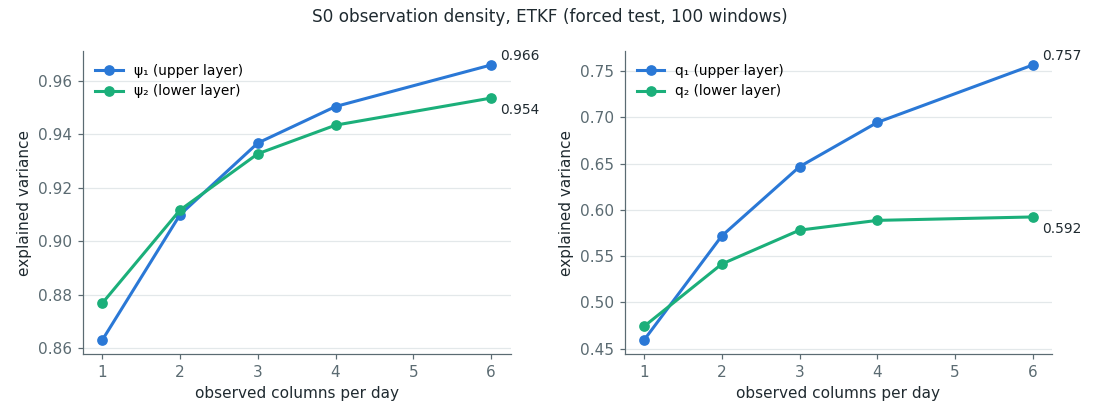
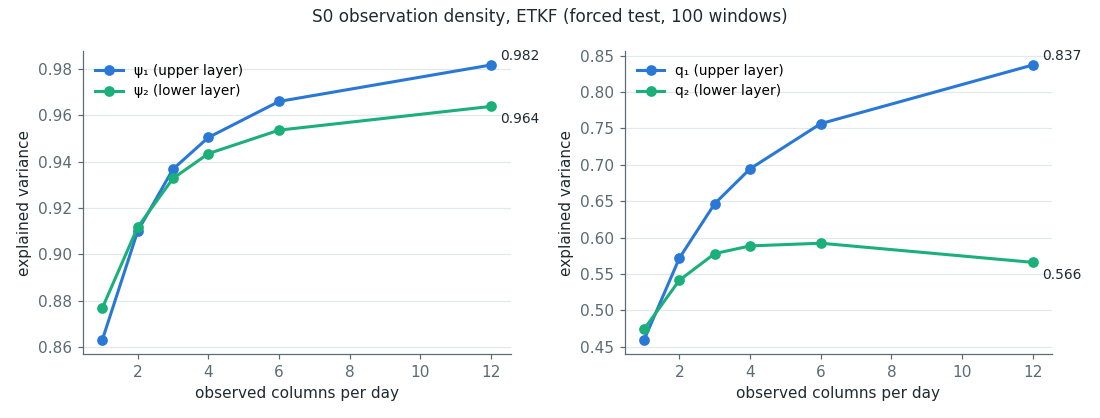
feat(qg): DA rows for the gyrostat observation-configuration stress test (#359)
ETKF, EnKS (N = 80) and strong 4D-Var on the forced test set at 12 columns per
day and at 15% / 2% noise, plus EnKS and 4D-Var at 6 columns per day, with
the reference-case settings. The DA sbatch gains NOISE (run tag _n<noise>);
the report's DA lookup now matches the noise level. §10 and the results doc
compare the neural schemes with DA in every configuration.

diff --git a/reports/qg/generate_qg_specwind_da_report.py b/reports/qg/generate_qg_specwind_da_report.py
@@ -56,7 +56,7 @@ def load_runs(root: str) -> list[dict]:
         n_shards = int(os.path.basename(files[0]).split("_of_")[1].split("_")[0])
         pw = sorted((w for m in metas for w in m["per_window"]), key=lambda w: w["index"])
         runs.append({"dir": d, "spec": m0["spec"], "method": m0["method"],
-                     "cols": m0["cols_per_day"], "kappa": m0.get("s1_kappa", 0.0) or 0.0,
+                     "cols": m0["cols_per_day"], "noise": float(m0.get("obs_noise_frac", 0.05)), "kappa": m0.get("s1_kappa", 0.0) or 0.0,
                      "s1": (f"realistic {m0['s1_variant']}" if m0.get("s1_variant")
                             else (f"κ = {m0['s1_kappa']:g}" if m0.get("s1_kappa") else S0)),
                      "loc": m0["loc_radius"], "ridge": m0.get("etkf_ridge"),
@@ -99,7 +99,8 @@ def _var_ok(r: dict) -> bool:
 
 
 def _find(runs: list[dict], spec: str, method: str, cols: int, s1: str = S0,
-          r_scale: float = 1.0) -> dict | None:
+          r_scale: float = 1.0, noise: float = 0.05) -> dict | None:
+    runs = [r for r in runs if abs(r["noise"] - noise) < 1e-9]
     if method in VAR_METHODS:
         hits = [r for r in runs if r["spec"] == spec and r["method"] == method and r["cols"] == cols
                 and r["s1"] == s1 and r["complete"] and abs(r["r_scale"] - r_scale) < 1e-9 and _var_ok(r)]
@@ -217,7 +218,7 @@ LARGE_N_SETTINGS = {
 
 def _find_large(runs: list[dict], spec: str, method: str, s1: str, r_scale: float) -> dict | None:
     want = LARGE_N_SETTINGS[S0 if s1 == S0 else "S1"][method]
-    hits = [r for r in runs if r["spec"] == spec and r["method"] == method and r["cols"] == 3
+    hits = [r for r in runs if abs(r["noise"] - 0.05) < 1e-9 and r["spec"] == spec and r["method"] == method and r["cols"] == 3
             and r["s1"] == s1 and r["complete"] and r["N"] == LARGE_N
             and abs(r["r_scale"] - r_scale) < 1e-9 and abs(r["loc"] - want["loc"]) < 1e-9
             and (method != "enks" or r["taper"] == want["taper"])]
@@ -430,10 +431,11 @@ NEURAL_SCHEMES = (
 HYBRID_LABEL = NEURAL_SCHEMES[-1][0]
 END_TO_END = tuple(s[0] for s in NEURAL_SCHEMES if s[0].startswith(("G1", "G2")))
 # DA reference rows per config key: (label, method, r_scale, N, deterministic?)
-DA_REFS = (("ETKF (N = 80)", "etkf", {"c3": 1.0, "s1": S1_TUNED_R, "c6": 1.0}, 80, False),
-           ("EnKS (N = 80)", "enks", {"c3": 1.0, "s1": S1_TUNED_R}, 80, False),
+_S0_STRESS = {"c6": 1.0, "c12": 1.0, "n15": 1.0, "n02": 1.0}
+DA_REFS = (("ETKF (N = 80)", "etkf", {"c3": 1.0, "s1": S1_TUNED_R, **_S0_STRESS}, 80, False),
+           ("EnKS (N = 80)", "enks", {"c3": 1.0, "s1": S1_TUNED_R, **_S0_STRESS}, 80, False),
            ("EnKS (N = 320)", "enks", {"c3": 1.0, "s1": S1_TUNED_R}, LARGE_N, False),
-           ("4D-Var (strong; S1: weak)", "4dvar", {"c3": 1.0, "s1": 1.0}, 0, True))
+           ("4D-Var (strong; S1: weak)", "4dvar", {"c3": 1.0, "s1": 1.0, **_S0_STRESS}, 0, True))
 
 
 def load_neural(root: str) -> dict[str, dict]:
@@ -475,10 +477,11 @@ def _da_ref_run(runs: list[dict], ref: tuple, cfg: tuple, s1: str) -> dict | Non
         return None
     scen = s1 if cfg[4] else S0
     if method == "4dvar":
-        return _find(runs, NEURAL_SPEC, "weak4dvar" if cfg[4] else "strong4dvar", cfg[2], scen)
+        return _find(runs, NEURAL_SPEC, "weak4dvar" if cfg[4] else "strong4dvar", cfg[2], scen,
+                     noise=cfg[3])
     if n == LARGE_N:
         return _find_large(runs, NEURAL_SPEC, method, scen, r_scales[cfg[0]])
-    return _find(runs, NEURAL_SPEC, method, cfg[2], scen, r_scales[cfg[0]])
+    return _find(runs, NEURAL_SPEC, method, cfg[2], scen, r_scales[cfg[0]], cfg[3])
 
 
 def _score(r: dict) -> np.ndarray:
@@ -776,8 +779,9 @@ def main() -> None:
            "noisier or cleaner ones (15% and 2% of the ψ₁ std) at 3 columns per day. 6 and 12 columns "
            "and 15% noise are inside the training observing system, 2% is below its error range. The "
            "SDA observation σ follows the noise level; the hybrids keep their single setting, except "
-           "the G2-3D one (weight 5 everywhere but S1). DA reference rows exist only at the reference "
-           "density and S1 (and the ETKF at 6 columns per day).", ""]
+           "the G2-3D one (weight 5 everywhere but S1). The DA rows (ETKF, EnKS, strong 4D-Var) keep their "
+           "reference-case settings too (radius 8, 4D-Var tuned at 3 columns per day); their R follows "
+           "the noise level. The N = 320 EnKS was run at the reference case and S1 only.", ""]
     md += obs_config_tables(runs, neural, s1) + [""]
     md += ["**Paired differences** (per-window score differences over the same 100 windows; bootstrap "
            "95% CI). Best end-to-end = the best G1/G2 row in that column.", ""]
@@ -791,6 +795,9 @@ def main() -> None:
            "- The initial state is the lagged truth in both scenarios (optimistic against an "
            "analysis-cycled first guess).",
            "- Only S0 has the density curve; S1 was run at 3 columns per day.",
+           "- The stress-test DA rows are not re-tuned: the ETKF's q₂ falls from 6 to 12 columns per "
+           "day (0.592 → 0.566), a sign that radius 8 is too wide at that density, and 4D-Var's "
+           "sub-window fallbacks rise at 15% and 2% noise (6 each).",
            "- Neural vs DA is not like for like in information: DA gets the lagged truth as its initial "
            "state and, in S0, the exact model and wind; the networks get only the observations but "
            "were trained on simulations of the true model. In S1 the networks therefore carry no "

diff --git a/tests/test_qg_specwind_neural_report.py b/tests/test_qg_specwind_neural_report.py
@@ -53,3 +53,12 @@ def test_paired_difference_uses_common_windows():
 def test_rank_marks_bold_best_and_italic_second():
     assert rep._mark([0.8, 0.9, None, 0.85]) == ["0.800", "**0.900**", "—", "*0.850*"]
     assert rep._mark([3.0, 2.0, 4.0], lower_better=True) == ["*3.000*", "**2.000**", "4.000"]
+
+
+def test_da_lookup_separates_noise_levels():
+    base = {"spec": rep.NEURAL_SPEC, "method": "enks", "cols": 3, "s1": rep.S0, "complete": True,
+            "r_scale": 1.0, "N": 80, "lag": None, "taper": rep.ENKS_TAPER, "mode": "-"}
+    runs = [{**base, "noise": 0.05, "dir": "ref"}, {**base, "noise": 0.15, "dir": "n15"}]
+    assert rep._find(runs, rep.NEURAL_SPEC, "enks", 3)["dir"] == "ref"
+    assert rep._find(runs, rep.NEURAL_SPEC, "enks", 3, noise=0.15)["dir"] == "n15"
+    assert rep._find(runs, rep.NEURAL_SPEC, "enks", 3, noise=0.02) is None

diff --git a/reports/qg/outputs/qg_specwind_da_report.md b/reports/qg/outputs/qg_specwind_da_report.md
@@ -169,8 +169,9 @@ The benchmark uses N = 80. At N = 320, S0 is still not converged (val: +0.022 fo
 | 1 (1.6% of columns) | 0.863 | 0.877 | 0.459 | 0.474 | 0.668 |
 | 2 (3.1% of columns) | 0.910 | 0.912 | 0.572 | 0.541 | 0.734 |
 | 3 (4.7% of columns) | 0.937 | 0.933 | 0.647 | 0.578 | 0.774 |
-| 4 (6.2% of columns) | *0.950* | *0.943* | *0.695* | *0.589* | *0.794* |
-| 6 (9.4% of columns) | **0.966** | **0.954** | **0.757** | **0.592** | **0.817** |
+| 4 (6.2% of columns) | 0.950 | 0.943 | 0.695 | *0.589* | 0.794 |
+| 6 (9.4% of columns) | *0.966* | *0.954* | *0.757* | **0.592** | *0.817* |
+| 12 (18.8% of columns) | **0.982** | **0.964** | **0.837** | 0.566 | **0.837** |
 
 ![observation density](figs/qg_specwind_da_density.png)
 
@@ -359,16 +360,16 @@ DA reference rows (italic, marked DA) are the benchmark ones from sections 2–4
 
 ## 10. Observation configurations (neural stress test)
 
-The same networks, not retrained, on denser observations (6 and 12 columns per day) and on noisier or cleaner ones (15% and 2% of the ψ₁ std) at 3 columns per day. 6 and 12 columns and 15% noise are inside the training observing system, 2% is below its error range. The SDA observation σ follows the noise level; the hybrids keep their single setting, except the G2-3D one (weight 5 everywhere but S1). DA reference rows exist only at the reference density and S1 (and the ETKF at 6 columns per day).
+The same networks, not retrained, on denser observations (6 and 12 columns per day) and on noisier or cleaner ones (15% and 2% of the ψ₁ std) at 3 columns per day. 6 and 12 columns and 15% noise are inside the training observing system, 2% is below its error range. The SDA observation σ follows the noise level; the hybrids keep their single setting, except the G2-3D one (weight 5 everywhere but S1). The DA rows (ETKF, EnKS, strong 4D-Var) keep their reference-case settings too (radius 8, 4D-Var tuned at 3 columns per day); their R follows the noise level. The N = 320 EnKS was run at the reference case and S1 only.
 
 **Score (mean EV)**
 
 | scheme | S0, 3 col/day, 5% | S1 (realistic base), 3 col/day | S0, 6 col/day, 5% | S0, 12 col/day, 5% | S0, 3 col/day, 15% | S0, 3 col/day, 2% |
 |---|---|---|---|---|---|---|
-| _ETKF (N = 80)_ (DA) | 0.774 | 0.633 | 0.817 | — | — | — |
-| _EnKS (N = 80)_ (DA) | 0.812 | 0.665 | — | — | — | — |
+| _ETKF (N = 80)_ (DA) | 0.774 | 0.633 | 0.817 | 0.837 | 0.762 | 0.774 |
+| _EnKS (N = 80)_ (DA) | 0.812 | 0.665 | 0.845 | 0.854 | 0.802 | 0.814 |
 | _EnKS (N = 320)_ (DA) | 0.841 | 0.675 | — | — | — | — |
-| _4D-Var (strong; S1: weak)_ (DA) | 0.840 | 0.612 | — | — | — | — |
+| _4D-Var (strong; S1: weak)_ (DA) | 0.840 | 0.612 | 0.911 | 0.933 | 0.785 | 0.843 |
 | G1-M-3D DirectUNet, stitched | 0.870 | 0.827 | 0.914 | 0.933 | — | — |
 | G1-M-3D DirectUNet, full window | 0.874 | 0.834 | 0.911 | 0.927 | 0.847 | 0.879 |
 | G1-L-3D DirectUNet, stitched | 0.882 | 0.837 | *0.925* | **0.943** | 0.850 | 0.888 |
@@ -382,8 +383,8 @@ The same networks, not retrained, on denser observations (6 and 12 columns per d
 
 | scheme | S0, 3 col/day, 5% | S1 (realistic base), 3 col/day | S0, 6 col/day, 5% | S0, 12 col/day, 5% | S0, 3 col/day, 15% | S0, 3 col/day, 2% |
 |---|---|---|---|---|---|---|
-| _ETKF (N = 80)_ (DA) | 5.875 | 7.364 | 4.938 | — | — | — |
-| _EnKS (N = 80)_ (DA) | 5.315 | 6.935 | — | — | — | — |
+| _ETKF (N = 80)_ (DA) | 5.875 | 7.364 | 4.938 | 4.178 | 6.176 | 5.813 |
+| _EnKS (N = 80)_ (DA) | 5.315 | 6.935 | 4.381 | 3.676 | 5.668 | 5.217 |
 | _EnKS (N = 320)_ (DA) | 4.775 | 6.811 | — | — | — | — |
 | G2-3D CFM, stitched | 4.275 | **5.112** | 3.321 | **2.756** | **4.911** | 4.174 |
 | G3-3D SDA prior, pure-noise SDA | 4.234 | 7.438 | 3.419 | 3.080 | 5.246 | **3.864** |
@@ -396,10 +397,10 @@ The same networks, not retrained, on denser observations (6 and 12 columns per d
 |---|---|---|---|---|---|
 | S0, 3 col/day, 5% | G1-L-3D DirectUNet, full window (0.890) | +0.010 [+0.009, +0.011] | -0.009 [-0.013, -0.006] | EnKS (N = 320) (0.841) | +0.060 [+0.053, +0.067] |
 | S1 (realistic base), 3 col/day | G1-L-3D DirectUNet, full window (0.849) | +0.008 [+0.007, +0.009] | -0.165 [-0.212, -0.124] | EnKS (N = 320) (0.675) | +0.182 [+0.163, +0.202] |
-| S0, 6 col/day, 5% | G1-L-3D DirectUNet, stitched (0.925) | +0.004 [+0.002, +0.005] | -0.009 [-0.013, -0.006] | ETKF (N = 80) (0.817) | +0.112 [+0.103, +0.120] |
-| S0, 12 col/day, 5% | G1-L-3D DirectUNet, stitched (0.943) | -0.002 [-0.003, -0.001] | -0.020 [-0.030, -0.013] | — | — |
-| S0, 3 col/day, 15% | G1-L-3D DirectUNet, full window (0.862) | +0.010 [+0.009, +0.011] | -0.030 [-0.036, -0.024] | — | — |
-| S0, 3 col/day, 2% | G1-L-3D DirectUNet, full window (0.896) | +0.010 [+0.009, +0.011] | -0.001 [-0.005, +0.003] | — | — |
+| S0, 6 col/day, 5% | G1-L-3D DirectUNet, stitched (0.925) | +0.004 [+0.002, +0.005] | -0.009 [-0.013, -0.006] | 4D-Var (strong; S1: weak) (0.911) | +0.018 [+0.012, +0.024] |
+| S0, 12 col/day, 5% | G1-L-3D DirectUNet, stitched (0.943) | -0.002 [-0.003, -0.001] | -0.020 [-0.030, -0.013] | 4D-Var (strong; S1: weak) (0.933) | +0.007 [+0.002, +0.013] |
+| S0, 3 col/day, 15% | G1-L-3D DirectUNet, full window (0.862) | +0.010 [+0.009, +0.011] | -0.030 [-0.036, -0.024] | EnKS (N = 80) (0.802) | +0.071 [+0.063, +0.078] |
+| S0, 3 col/day, 2% | G1-L-3D DirectUNet, full window (0.896) | +0.010 [+0.009, +0.011] | -0.001 [-0.005, +0.003] | 4D-Var (strong; S1: weak) (0.843) | +0.062 [+0.048, +0.077] |
 
 ## 11. Caveats
 
@@ -408,6 +409,7 @@ The same networks, not retrained, on denser observations (6 and 12 columns per d
 - 4D-Var is deterministic (no spread); its background error is climatological, not cycled.
 - The initial state is the lagged truth in both scenarios (optimistic against an analysis-cycled first guess).
 - Only S0 has the density curve; S1 was run at 3 columns per day.
+- The stress-test DA rows are not re-tuned: the ETKF's q₂ falls from 6 to 12 columns per day (0.592 → 0.566), a sign that radius 8 is too wide at that density, and 4D-Var's sub-window fallbacks rise at 15% and 2% noise (6 each).
 - Neural vs DA is not like for like in information: DA gets the lagged truth as its initial state and, in S0, the exact model and wind; the networks get only the observations but were trained on simulations of the true model. In S1 the networks therefore carry no model error (their S1 is the corrupted observations only), so most of the S1 gap to DA is the DA model error, not a better assimilation.
 - Neural rows: one training seed each; the hybrid with the G1-L-3D warm start mixes tiers (L-tier warm start, M-tier-size prior), and G2/G3 exist at M tier only.
 - The hybrid's ensembles are under-dispersed (spread/RMSE 0.47–0.74); pure-noise SDA is the best calibrated scheme but the weakest in score off the reference case.

diff --git a/docs/results/qg_specwind_neural_obs_configs.md b/docs/results/qg_specwind_neural_obs_configs.md
@@ -1,6 +1,6 @@
 # Neural schemes on the QG gyrostat benchmark: end-to-end, SDA and SDA hybrids across observation configurations
 
-**Status:** RESULTS (2026-10-21).
+**Status:** RESULTS (2026-10-21; DA rows for the stress configurations added 2026-10-22).
 - **Question 1:** is there an observing configuration where SDA sampled from pure noise
   (the published sampler) falls behind the end-to-end schemes?
 - **Question 2:** does the SDA hybrid (SDA started from an end-to-end estimate) stay ahead
@@ -94,11 +94,30 @@ configurations:
   [−0.0006, +0.0015].
 - A stitched warm start at dense observations is untested.
 
-**Against DA (section 9 of the report):**
-- **S0:** the hybrid is +0.060 over the best DA reference (EnKS, N = 320).
-- **S1:** the hybrid is +0.18 over it.
-- See the report's caveat: the networks are trained on the true model, so in S1 they carry
-  no model error.
+**Against DA (sections 9–10 of the report):** the hybrid beats the best DA row everywhere, but
+the gap shrinks as observations get denser.
+
+| config | best DA row | hybrid − best DA [95% CI] |
+|---|---|---|
+| S0, 3 col/day | EnKS N = 320, 0.841 | +0.060 [+0.053, +0.067] |
+| S1 | EnKS N = 320 (S1-tuned), 0.675 | +0.182 [+0.163, +0.202] |
+| 6 col/day | strong 4D-Var, 0.911 | +0.018 [+0.012, +0.024] |
+| 12 col/day | strong 4D-Var, 0.933 | +0.007 [+0.002, +0.013] |
+| 15% noise | EnKS N = 80, 0.802 | +0.071 [+0.063, +0.078] |
+| 2% noise | strong 4D-Var, 0.843 | +0.062 [+0.048, +0.077] |
+
+- **Density:** 4D-Var gains the most from denser observations (0.840 → 0.911 → 0.933). At 12
+  columns it ties G1-M-3D stitched (0.933), and the end-to-end and SDA advantage is mostly a
+  sparse-observation effect.
+- **Noise:** the ensembles degrade little at 15% noise (EnKS 0.812 → 0.802), while 4D-Var drops
+  to 0.785. Neither DA family gains at 2% noise (EnKS 0.814, 4D-Var 0.843), while the networks
+  gain +0.003 to +0.014 (pure-noise SDA the most).
+- **Not re-tuned:** the DA settings are the reference-case ones. The ETKF's q₂ falls from 6 to
+  12 columns (0.592 → 0.566), which suggests radius 8 is too wide at 12 columns, and 4D-Var has
+  6 sub-window fallbacks at 15% and at 2% noise. The 12-column and noise gaps to DA are
+  therefore upper bounds.
+- **S1:** see the report's caveat. The networks are trained on the true model, so in S1 they
+  carry no model error.
 
 ### 3. The warm start sets the hybrid's level
 
@@ -189,11 +208,12 @@ the most spread.
 - One training seed per network.
 - **Tier mismatch:** the G1-L-3D hybrid uses an L-tier warm start, while G2 and G3 exist at
   M tier only.
-- **DA rows:** they exist only at the reference density and S1 (plus the ETKF at 6 columns).
-  The stress configurations have no DA counterpart yet.
+- **DA rows at the stress configurations:** ETKF, EnKS and strong 4D-Var with the
+  reference-case settings, not re-tuned. There is no N = 320 EnKS there.
 
 **Open items:**
 - **Stitched warm start at dense observations:** for the 12-column gap.
 - **L-tier G2 and G3:** about 2 days of training each.
 - **Spread of the hybrid:** perturbed warm starts, or a τ₀/weight trade-off on CRPS.
-- **DA rows at 12 columns and at 15% / 2% noise:** EnKS and 4D-Var.
+- **DA re-tuning at 12 columns:** localization radius and 4D-Var sub-window, if the dense-observation
+  comparison matters.

diff --git a/CHANGELOG.d/2026-10-22-qg-specwind-da-stress-rows.md b/CHANGELOG.d/2026-10-22-qg-specwind-da-stress-rows.md
@@ -1,0 +1,6 @@
+## 2026-10-22: QG gyrostat DA rows for the observation-configuration stress test
+
+**Summary:** Adds ETKF, EnKS (N = 80) and strong 4D-Var test rows (100 forced windows) at 12 columns per day and at 15% and 2% noise, plus EnKS and 4D-Var at 6 columns per day. §10 of the gyrostat report now compares the neural schemes with DA in every configuration. The ETKF density curve (§5 table and figure) extends to 12 columns.
+**Files modified:** `batch/run_qg_specwind_da.sbatch` — `NOISE` setting; the run directory gets an `_n<noise>` tag when the noise is not 0.05. `reports/qg/generate_qg_specwind_da_report.py` — the DA lookup matches the noise level, and the stress-config DA references are added. `reports/qg/outputs/qg_specwind_da_report.md`, `reports/qg/outputs/figs/qg_specwind_da_density.png` — re-rendered. `docs/results/qg_specwind_neural_obs_configs.md` — DA comparison. `tests/test_qg_specwind_neural_report.py` — noise-lookup test.
+**Rationale:** The stress-test columns had no DA counterpart. With them, the hybrid beats the best DA row everywhere: +0.060 at 3 columns, +0.018 at 6, +0.007 at 12, +0.071 at 15% noise and +0.062 at 2% noise. 4D-Var closes most of the gap at dense observations. The DA settings were not re-tuned for these configurations.
+**Verification:** `pytest tests/test_qg_specwind_neural_report.py tests/test_reports_index.py tests/test_docs_layout.py -q`. SLURM 63841–63851, all 110 shards complete.
